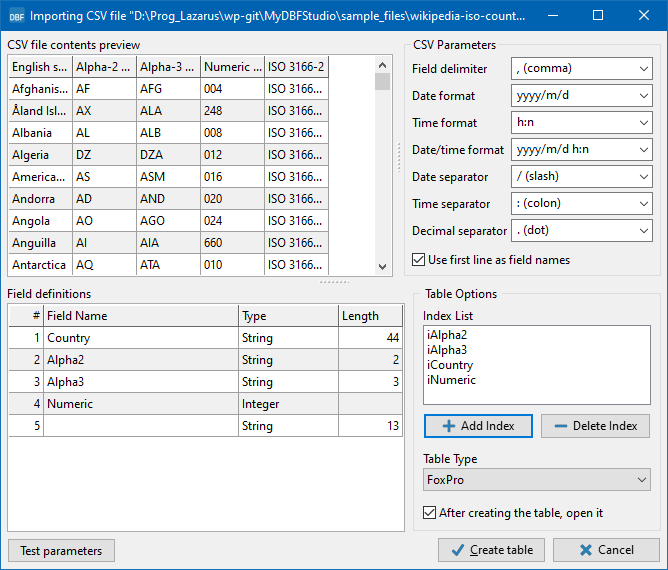
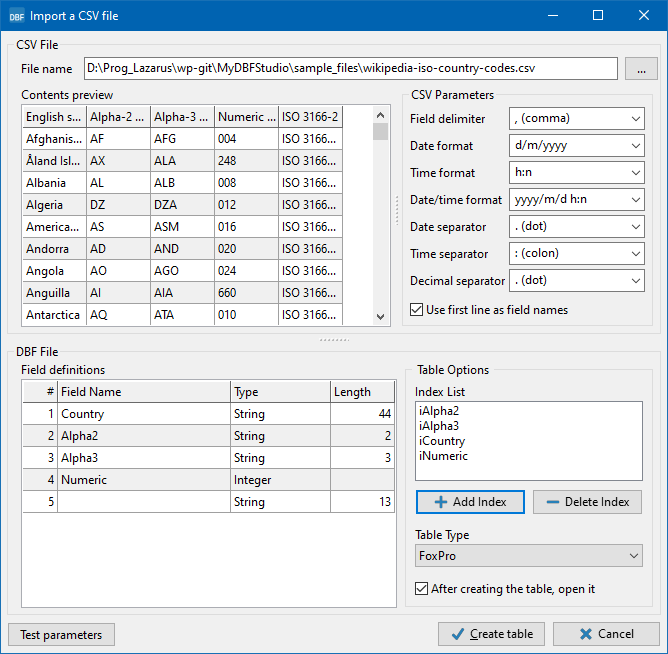
Update help file to current state of the application.

Changed region(s): [[0.0, 0.0, 1.0, 1.0]]

diff --git a/help/index.html b/help/index.html
@@ -259,7 +259,7 @@
         After you have successfully opened a table, you encounter this:
       </p>
       <p>
-        <a href="img/table.png"><img title="Click to enlarge" style="border: 2px solid ; width: 500px; height: 366px;"
+        <a href="img/table.png"><img title="Click to enlarge" style="border: 2px solid;"
            alt="tableexample" src="img/table.png">
         </a>
       </p>
@@ -268,20 +268,13 @@
         window.
       </p>
       <p>
-        The first group of buttons invokes special functions like: 
+      <p>
+        Next to the record indicator at the very left, there is a first group 
+        of buttons which is used to navigate between records, 
+        to insert, delete, edit...
+      </p>
+        The second group of buttons invokes special functions like: 
         <ul>
-          <li style="margin-bottom:6pt">
-            <img style="width: 16px; height: 16px; font-weight: normal;" alt="packtable" src="img/icons8_compress_16px.png">
-            <i>Pack table</i> compacts the table, <i>i.e.</i> physically removes the deleted records.
-          </li>
-          <li style="margin-bottom:6pt">
-            <img style="width: 16px; height: 16px;" alt="emptybutton" src="img/icons8_delete_database_16px.png"> 
-            <i>Empty table</i> deletes all records in the table.
-          </li>
-          <li style="margin-bottom:6pt">
-            <img style="width: 16px; height: 16px;" alt="cutbutton" src="img/icons8_delete_row_16px.png">
-            Deletes only visible (non-filtered) records.
-          </li>
           <li style="margin-bottom:6pt">
             <img style="width: 16px; height: 16px;" alt="restructurebutton" src="img/icons8_tree_structure_16px.png"> 
             <i>Restructure</i> allows you to change the table structure or indexes.
@@ -293,6 +286,18 @@
             mathematical operation between two fields (<tt>+, -, *, /</tt>).
           </li>
           <li style="margin-bottom:6pt">
+            <img style="width: 16px; height: 16px;" alt="cutbutton" src="img/icons8_delete_row_16px.png">
+            Deletes only visible (non-filtered) records.
+          </li>
+          <li style="margin-bottom:6pt">
+            <img style="width: 16px; height: 16px;" alt="emptybutton" src="img/icons8_delete_database_16px.png"> 
+            <i>Empty table</i> deletes all records in the table.
+          </li>
+          <li style="margin-bottom:6pt">
+            <img style="width: 16px; height: 16px; font-weight: normal;" alt="packtable" src="img/icons8_compress_16px.png">
+            <i>Pack table</i> compacts the table, <i>i.e.</i> physically removes the deleted records.
+          </li>
+          <li style="margin-bottom:6pt">
             <img style="width: 16px; height: 16px;" alt="autofillcolumnsbutton" src="img/icons8_resize_horizontal_16px.png" />
             <i>Auto-fill columns</i>: If pressed, the width of the grid is
             evenly distributed to all columns so that all of them are visible
@@ -300,10 +305,6 @@
             If released, the widths are reverted to the values setup in the dbf file.
           </li>
         </ul>
-      </p>
-      <p>
-        The second group of buttons, from left, is used to navigate between 
-        records, to insert, delete, edit...
       </p>
       <p>
         Moreover, in the <i>Filter</i> field you can enter a command 
